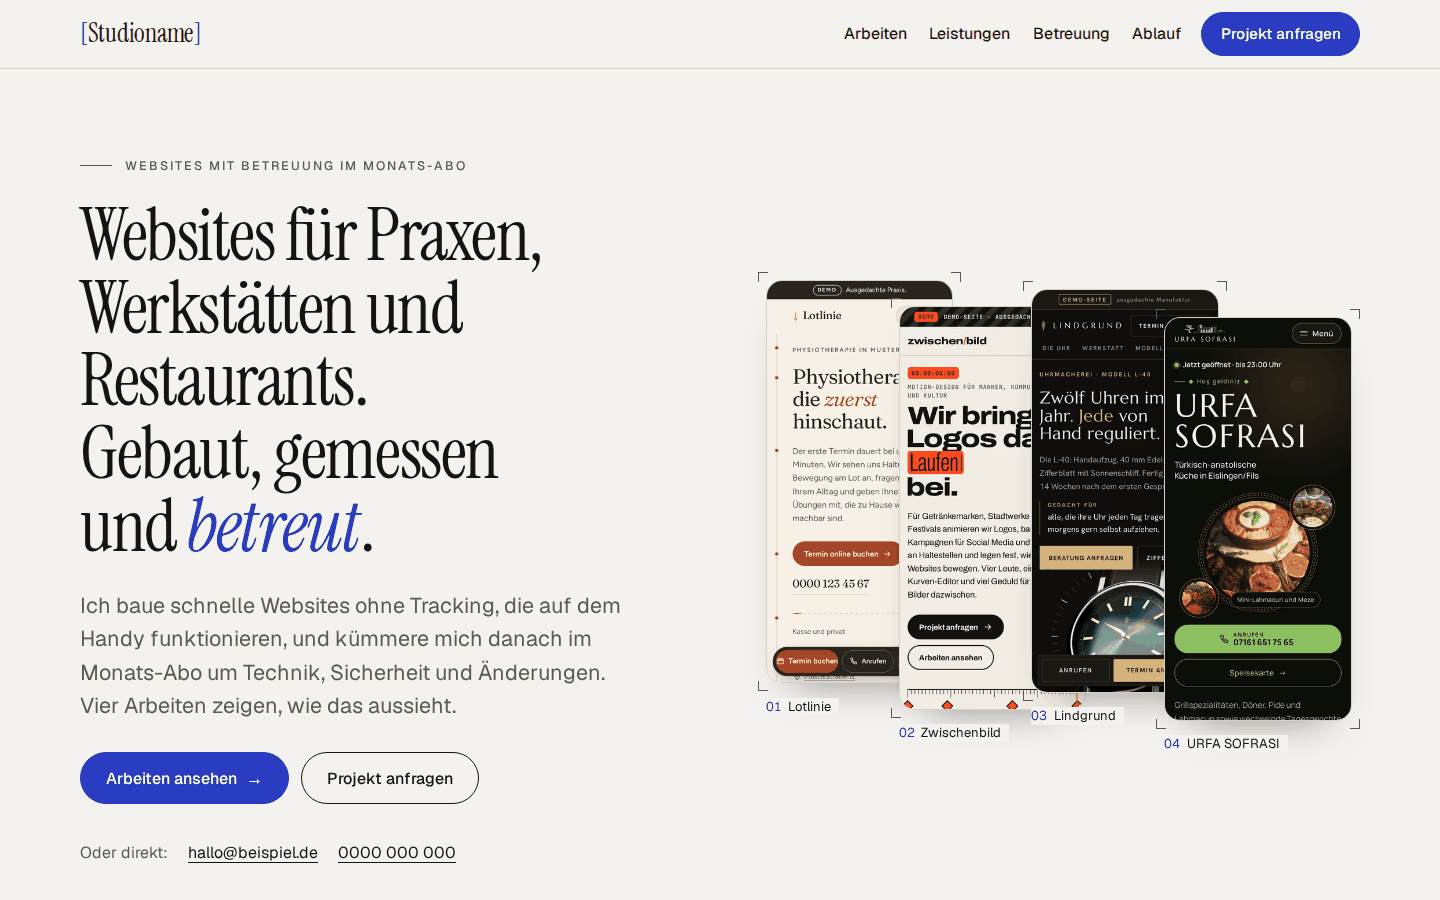
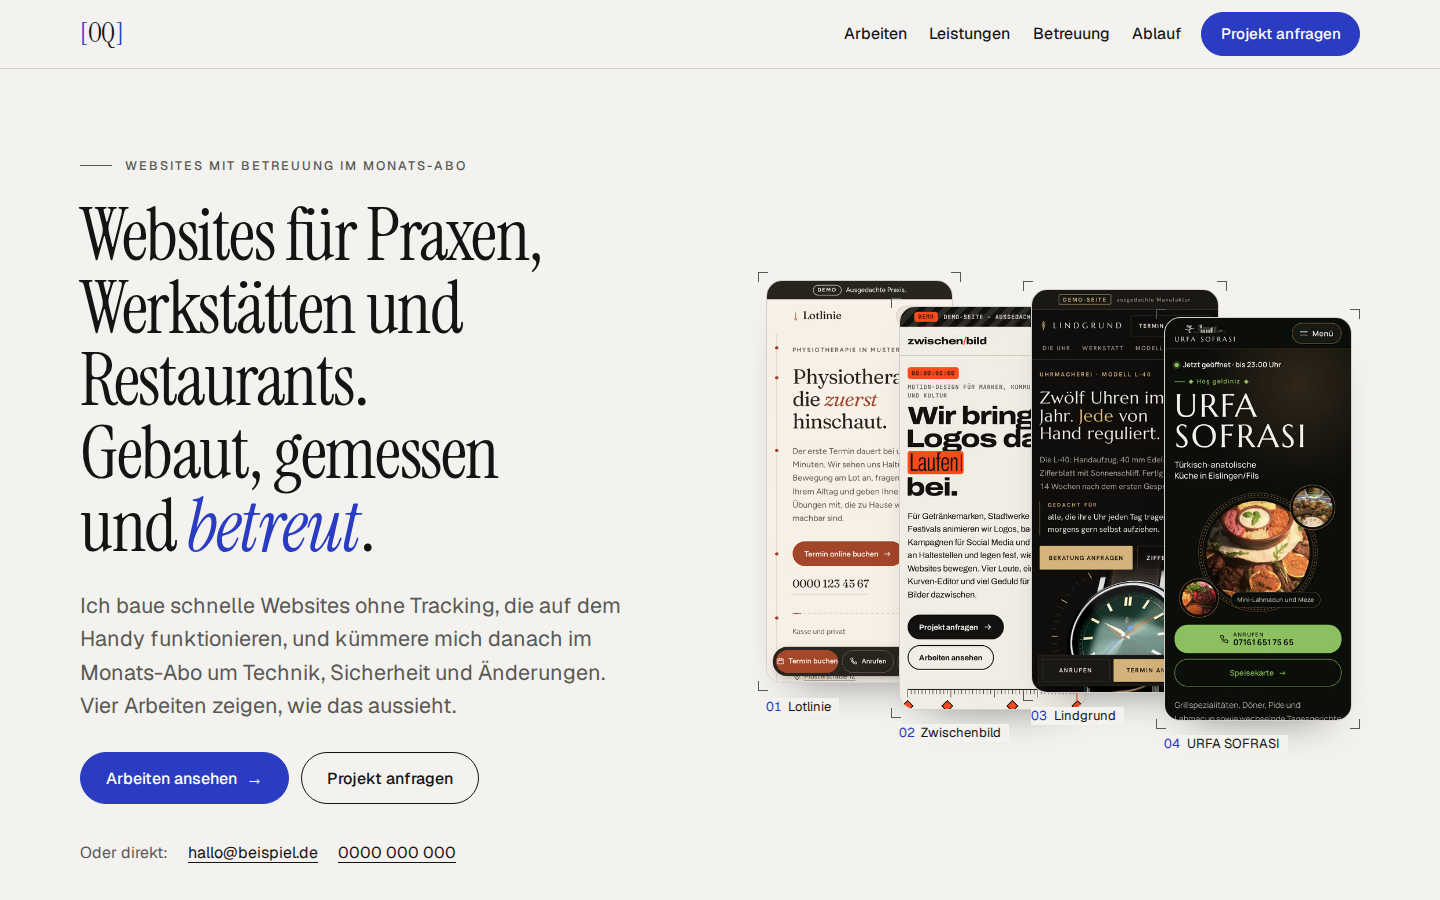
Portfolio: Arbeitstitel OQ und Name Elias Wagner eingetragen (A-041)
Beides bleibt mit data-pruefen markiert, bis Elias es bestätigt. Übrige Platzhalter unverändert.

Claude-Session: https://claude.ai/code/session_01Gt3jZQYM48uUocZ8Eq6PUE

diff --git a/kunden/elias-studio/public/index.html b/kunden/elias-studio/public/index.html
@@ -3,12 +3,12 @@
 <head>
 <meta charset="utf-8">
 <meta name="viewport" content="width=device-width, initial-scale=1, viewport-fit=cover">
-<title>[Studioname] – Websites mit Betreuung für Praxen und Betriebe</title>
+<title>OQ – Websites mit Betreuung für Praxen und Betriebe</title>
 <meta name="description" content="Schnelle Websites ohne Tracking, gebaut für das Handy und im Monats-Abo betreut. Vier Arbeiten mit Messwerten: Physiotherapie, Motion-Studio, Uhrmacherei, Restaurant.">
 <link rel="canonical" href="https://www.beispiel.de/">
 <meta property="og:type" content="website">
 <meta property="og:locale" content="de_DE">
-<meta property="og:title" content="[Studioname] – Websites mit Betreuung für Praxen und Betriebe">
+<meta property="og:title" content="OQ – Websites mit Betreuung für Praxen und Betriebe">
 <meta property="og:description" content="Schnelle Websites ohne Tracking, gebaut für das Handy und im Monats-Abo betreut. Vier Arbeiten mit Messwerten: Physiotherapie, Motion-Studio, Uhrmacherei, Restaurant.">
 <meta property="og:url" content="https://www.beispiel.de/">
 <meta name="theme-color" content="#f3f2ee">
@@ -27,7 +27,7 @@
 <a class="sprung" href="#inhalt">Zum Inhalt springen</a>
 <header class="kopf">
   <div class="huelle kopf-in">
-    <a class="marke" href="/"><span class="marke-klammer" aria-hidden="true">[</span><span data-pruefen="Studioname festlegen (Arbeitstitel)">Studioname</span><span class="marke-klammer" aria-hidden="true">]</span><span class="unsichtbar"> – zur Startseite</span></a>
+    <a class="marke" href="/"><span class="marke-klammer" aria-hidden="true">[</span><span data-pruefen="Arbeitstitel OQ (aus Elias’ Notizen: „könnte Markenname werden“) – endgültigen Namen bestätigen">OQ</span><span class="marke-klammer" aria-hidden="true">]</span><span class="unsichtbar"> – zur Startseite</span></a>
     <button class="menue-knopf" type="button" aria-expanded="false" aria-controls="nav">Menü</button>
     <nav class="nav blatt" id="nav" aria-label="Hauptnavigation">
       <ul>
@@ -363,7 +363,7 @@
     <div class="ueber-text">
       <p class="ueberzeile">Über mich</p>
       <h2 id="t-ueber" class="einblenden">Eine Person, ein <em>Maßstab</em>.</h2>
-      <p class="einblenden">Hinter <span class="platzhalter-wort" data-pruefen="Studioname festlegen (Arbeitstitel)">[Studioname]</span> stehe ich, <span data-pruefen="Nachname von Elias eintragen">Elias [Nachname]</span>, in <span data-pruefen="Ort bzw. Region eintragen, in der Elias arbeitet">[Ort]</span>. Sie sprechen vom ersten Gespräch bis zur Betreuung mit derselben Person.</p>
+      <p class="einblenden">Hinter <span class="platzhalter-wort" data-pruefen="Arbeitstitel OQ (aus Elias’ Notizen: „könnte Markenname werden“) – endgültigen Namen bestätigen">OQ</span> stehe ich, <span data-pruefen="Name aus Elias’ Konto übernommen – Schreibweise bestätigen">Elias Wagner</span>, in <span data-pruefen="Ort bzw. Region eintragen, in der Elias arbeitet">[Ort]</span>. Sie sprechen vom ersten Gespräch bis zur Betreuung mit derselben Person.</p>
       <p class="einblenden platzhalter-text" data-pruefen="Text über Elias: Werdegang, warum Websites, was ihn antreibt – von Elias selbst">[Hier ein paar Sätze von Elias: Werdegang, warum Websites, was ihn antreibt.]</p>
       <p class="einblenden">Jede Seite, die ich übergebe, durchläuft dieselbe Prüfung wie die vier Arbeiten oben. Die Messwerte bekommen Sie mit – bei der Abnahme und danach jeden Monat im Bericht.</p>
     </div>
@@ -399,7 +399,7 @@
 <footer class="fuss">
   <div class="huelle fuss-raster">
     <div class="fuss-marke">
-      <p class="fuss-name"><span aria-hidden="true">[</span><span data-pruefen="Studioname festlegen (Arbeitstitel)">Studioname</span><span aria-hidden="true">]</span></p>
+      <p class="fuss-name"><span aria-hidden="true">[</span><span data-pruefen="Arbeitstitel OQ (aus Elias’ Notizen: „könnte Markenname werden“) – endgültigen Namen bestätigen">OQ</span><span aria-hidden="true">]</span></p>
       <p>Websites mit Betreuung für Praxen, Werkstätten, Restaurants und Studios.</p>
     </div>
     <div>

diff --git a/kunden/elias-studio/public/datenschutz.html b/kunden/elias-studio/public/datenschutz.html
@@ -3,14 +3,14 @@
 <head>
 <meta charset="utf-8">
 <meta name="viewport" content="width=device-width, initial-scale=1, viewport-fit=cover">
-<title>Datenschutz – [Studioname]</title>
-<meta name="description" content="Datenschutzerklärung von [Studioname].">
+<title>Datenschutz – OQ</title>
+<meta name="description" content="Datenschutzerklärung von OQ.">
 <meta name="robots" content="noindex, follow">
 <link rel="canonical" href="https://www.beispiel.de/datenschutz.html">
 <meta property="og:type" content="website">
 <meta property="og:locale" content="de_DE">
-<meta property="og:title" content="Datenschutz – [Studioname]">
-<meta property="og:description" content="Datenschutzerklärung von [Studioname].">
+<meta property="og:title" content="Datenschutz – OQ">
+<meta property="og:description" content="Datenschutzerklärung von OQ.">
 <meta property="og:url" content="https://www.beispiel.de/datenschutz.html">
 <meta name="theme-color" content="#f3f2ee">
 <link rel="icon" href="/favicon.svg" type="image/svg+xml">
@@ -28,7 +28,7 @@
 <a class="sprung" href="#inhalt">Zum Inhalt springen</a>
 <header class="kopf">
   <div class="huelle kopf-in">
-    <a class="marke" href="/"><span class="marke-klammer" aria-hidden="true">[</span><span data-pruefen="Studioname festlegen (Arbeitstitel)">Studioname</span><span class="marke-klammer" aria-hidden="true">]</span><span class="unsichtbar"> – zur Startseite</span></a>
+    <a class="marke" href="/"><span class="marke-klammer" aria-hidden="true">[</span><span data-pruefen="Arbeitstitel OQ (aus Elias’ Notizen: „könnte Markenname werden“) – endgültigen Namen bestätigen">OQ</span><span class="marke-klammer" aria-hidden="true">]</span><span class="unsichtbar"> – zur Startseite</span></a>
     <button class="menue-knopf" type="button" aria-expanded="false" aria-controls="nav">Menü</button>
     <nav class="nav blatt" id="nav" aria-label="Hauptnavigation">
       <ul>
@@ -44,7 +44,7 @@
 
 <main id="inhalt">
 <div class="huelle einfach">
-  <p class="ueberzeile"><span class="platzhalter-wort" data-pruefen="Studioname festlegen (Arbeitstitel)">[Studioname]</span></p>
+  <p class="ueberzeile"><span class="platzhalter-wort" data-pruefen="Arbeitstitel OQ (aus Elias’ Notizen: „könnte Markenname werden“) – endgültigen Namen bestätigen">OQ</span></p>
   <h1>Datenschutz&shy;erklärung</h1>
   <div class="platzhalter" data-pruefen="Rechtstext nicht erfinden: Datenschutzerklärung aus einem Generator oder vom Anwalt einfügen.">
     <p>PLATZHALTER – Hier kommt die Datenschutzerklärung hin. Technische Fakten dieser Website, die dafür wichtig sind:</p>
@@ -61,7 +61,7 @@
 <footer class="fuss">
   <div class="huelle fuss-raster">
     <div class="fuss-marke">
-      <p class="fuss-name"><span aria-hidden="true">[</span><span data-pruefen="Studioname festlegen (Arbeitstitel)">Studioname</span><span aria-hidden="true">]</span></p>
+      <p class="fuss-name"><span aria-hidden="true">[</span><span data-pruefen="Arbeitstitel OQ (aus Elias’ Notizen: „könnte Markenname werden“) – endgültigen Namen bestätigen">OQ</span><span aria-hidden="true">]</span></p>
       <p>Websites mit Betreuung für Praxen, Werkstätten, Restaurants und Studios.</p>
     </div>
     <div>

diff --git a/kunden/elias-studio/public/impressum.html b/kunden/elias-studio/public/impressum.html
@@ -3,14 +3,14 @@
 <head>
 <meta charset="utf-8">
 <meta name="viewport" content="width=device-width, initial-scale=1, viewport-fit=cover">
-<title>Impressum – [Studioname]</title>
-<meta name="description" content="Impressum von [Studioname].">
+<title>Impressum – OQ</title>
+<meta name="description" content="Impressum von OQ.">
 <meta name="robots" content="noindex, follow">
 <link rel="canonical" href="https://www.beispiel.de/impressum.html">
 <meta property="og:type" content="website">
 <meta property="og:locale" content="de_DE">
-<meta property="og:title" content="Impressum – [Studioname]">
-<meta property="og:description" content="Impressum von [Studioname].">
+<meta property="og:title" content="Impressum – OQ">
+<meta property="og:description" content="Impressum von OQ.">
 <meta property="og:url" content="https://www.beispiel.de/impressum.html">
 <meta name="theme-color" content="#f3f2ee">
 <link rel="icon" href="/favicon.svg" type="image/svg+xml">
@@ -28,7 +28,7 @@
 <a class="sprung" href="#inhalt">Zum Inhalt springen</a>
 <header class="kopf">
   <div class="huelle kopf-in">
-    <a class="marke" href="/"><span class="marke-klammer" aria-hidden="true">[</span><span data-pruefen="Studioname festlegen (Arbeitstitel)">Studioname</span><span class="marke-klammer" aria-hidden="true">]</span><span class="unsichtbar"> – zur Startseite</span></a>
+    <a class="marke" href="/"><span class="marke-klammer" aria-hidden="true">[</span><span data-pruefen="Arbeitstitel OQ (aus Elias’ Notizen: „könnte Markenname werden“) – endgültigen Namen bestätigen">OQ</span><span class="marke-klammer" aria-hidden="true">]</span><span class="unsichtbar"> – zur Startseite</span></a>
     <button class="menue-knopf" type="button" aria-expanded="false" aria-controls="nav">Menü</button>
     <nav class="nav blatt" id="nav" aria-label="Hauptnavigation">
       <ul>
@@ -44,7 +44,7 @@
 
 <main id="inhalt">
 <div class="huelle einfach">
-  <p class="ueberzeile"><span class="platzhalter-wort" data-pruefen="Studioname festlegen (Arbeitstitel)">[Studioname]</span></p>
+  <p class="ueberzeile"><span class="platzhalter-wort" data-pruefen="Arbeitstitel OQ (aus Elias’ Notizen: „könnte Markenname werden“) – endgültigen Namen bestätigen">OQ</span></p>
   <h1>Impressum</h1>
   <div class="platzhalter" data-pruefen="Rechtstext nicht erfinden: Impressum aus einem Generator oder vom Anwalt einfügen (Name, Anschrift, Kontakt, ggf. USt-IdNr.).">
     <p>PLATZHALTER – Hier kommt das Impressum hin. Es wird nicht selbst formuliert, sondern aus einem Generator übernommen oder anwaltlich erstellt.</p>
@@ -55,7 +55,7 @@
 <footer class="fuss">
   <div class="huelle fuss-raster">
     <div class="fuss-marke">
-      <p class="fuss-name"><span aria-hidden="true">[</span><span data-pruefen="Studioname festlegen (Arbeitstitel)">Studioname</span><span aria-hidden="true">]</span></p>
+      <p class="fuss-name"><span aria-hidden="true">[</span><span data-pruefen="Arbeitstitel OQ (aus Elias’ Notizen: „könnte Markenname werden“) – endgültigen Namen bestätigen">OQ</span><span aria-hidden="true">]</span></p>
       <p>Websites mit Betreuung für Praxen, Werkstätten, Restaurants und Studios.</p>
     </div>
     <div>

diff --git a/kunden/elias-studio/public/nachricht-gesendet.html b/kunden/elias-studio/public/nachricht-gesendet.html
@@ -3,13 +3,13 @@
 <head>
 <meta charset="utf-8">
 <meta name="viewport" content="width=device-width, initial-scale=1, viewport-fit=cover">
-<title>Nachricht gesendet – [Studioname]</title>
+<title>Nachricht gesendet – OQ</title>
 <meta name="description" content="Ihre Nachricht ist angekommen.">
 <meta name="robots" content="noindex">
 <link rel="canonical" href="https://www.beispiel.de/nachricht-gesendet.html">
 <meta property="og:type" content="website">
 <meta property="og:locale" content="de_DE">
-<meta property="og:title" content="Nachricht gesendet – [Studioname]">
+<meta property="og:title" content="Nachricht gesendet – OQ">
 <meta property="og:description" content="Ihre Nachricht ist angekommen.">
 <meta property="og:url" content="https://www.beispiel.de/nachricht-gesendet.html">
 <meta name="theme-color" content="#f3f2ee">
@@ -28,7 +28,7 @@
 <a class="sprung" href="#inhalt">Zum Inhalt springen</a>
 <header class="kopf">
   <div class="huelle kopf-in">
-    <a class="marke" href="/"><span class="marke-klammer" aria-hidden="true">[</span><span data-pruefen="Studioname festlegen (Arbeitstitel)">Studioname</span><span class="marke-klammer" aria-hidden="true">]</span><span class="unsichtbar"> – zur Startseite</span></a>
+    <a class="marke" href="/"><span class="marke-klammer" aria-hidden="true">[</span><span data-pruefen="Arbeitstitel OQ (aus Elias’ Notizen: „könnte Markenname werden“) – endgültigen Namen bestätigen">OQ</span><span class="marke-klammer" aria-hidden="true">]</span><span class="unsichtbar"> – zur Startseite</span></a>
     <button class="menue-knopf" type="button" aria-expanded="false" aria-controls="nav">Menü</button>
     <nav class="nav blatt" id="nav" aria-label="Hauptnavigation">
       <ul>
@@ -54,7 +54,7 @@
 <footer class="fuss">
   <div class="huelle fuss-raster">
     <div class="fuss-marke">
-      <p class="fuss-name"><span aria-hidden="true">[</span><span data-pruefen="Studioname festlegen (Arbeitstitel)">Studioname</span><span aria-hidden="true">]</span></p>
+      <p class="fuss-name"><span aria-hidden="true">[</span><span data-pruefen="Arbeitstitel OQ (aus Elias’ Notizen: „könnte Markenname werden“) – endgültigen Namen bestätigen">OQ</span><span aria-hidden="true">]</span></p>
       <p>Websites mit Betreuung für Praxen, Werkstätten, Restaurants und Studios.</p>
     </div>
     <div>

diff --git a/kunden/elias-studio/public/404.html b/kunden/elias-studio/public/404.html
@@ -3,13 +3,13 @@
 <head>
 <meta charset="utf-8">
 <meta name="viewport" content="width=device-width, initial-scale=1, viewport-fit=cover">
-<title>Seite nicht gefunden – [Studioname]</title>
+<title>Seite nicht gefunden – OQ</title>
 <meta name="description" content="Diese Seite gibt es nicht (mehr).">
 <meta name="robots" content="noindex">
 <link rel="canonical" href="https://www.beispiel.de/404.html">
 <meta property="og:type" content="website">
 <meta property="og:locale" content="de_DE">
-<meta property="og:title" content="Seite nicht gefunden – [Studioname]">
+<meta property="og:title" content="Seite nicht gefunden – OQ">
 <meta property="og:description" content="Diese Seite gibt es nicht (mehr).">
 <meta property="og:url" content="https://www.beispiel.de/404.html">
 <meta name="theme-color" content="#f3f2ee">
@@ -28,7 +28,7 @@
 <a class="sprung" href="#inhalt">Zum Inhalt springen</a>
 <header class="kopf">
   <div class="huelle kopf-in">
-    <a class="marke" href="/"><span class="marke-klammer" aria-hidden="true">[</span><span data-pruefen="Studioname festlegen (Arbeitstitel)">Studioname</span><span class="marke-klammer" aria-hidden="true">]</span><span class="unsichtbar"> – zur Startseite</span></a>
+    <a class="marke" href="/"><span class="marke-klammer" aria-hidden="true">[</span><span data-pruefen="Arbeitstitel OQ (aus Elias’ Notizen: „könnte Markenname werden“) – endgültigen Namen bestätigen">OQ</span><span class="marke-klammer" aria-hidden="true">]</span><span class="unsichtbar"> – zur Startseite</span></a>
     <button class="menue-knopf" type="button" aria-expanded="false" aria-controls="nav">Menü</button>
     <nav class="nav blatt" id="nav" aria-label="Hauptnavigation">
       <ul>
@@ -54,7 +54,7 @@
 <footer class="fuss">
   <div class="huelle fuss-raster">
     <div class="fuss-marke">
-      <p class="fuss-name"><span aria-hidden="true">[</span><span data-pruefen="Studioname festlegen (Arbeitstitel)">Studioname</span><span aria-hidden="true">]</span></p>
+      <p class="fuss-name"><span aria-hidden="true">[</span><span data-pruefen="Arbeitstitel OQ (aus Elias’ Notizen: „könnte Markenname werden“) – endgültigen Namen bestätigen">OQ</span><span aria-hidden="true">]</span></p>
       <p>Websites mit Betreuung für Praxen, Werkstätten, Restaurants und Studios.</p>
     </div>
     <div>
